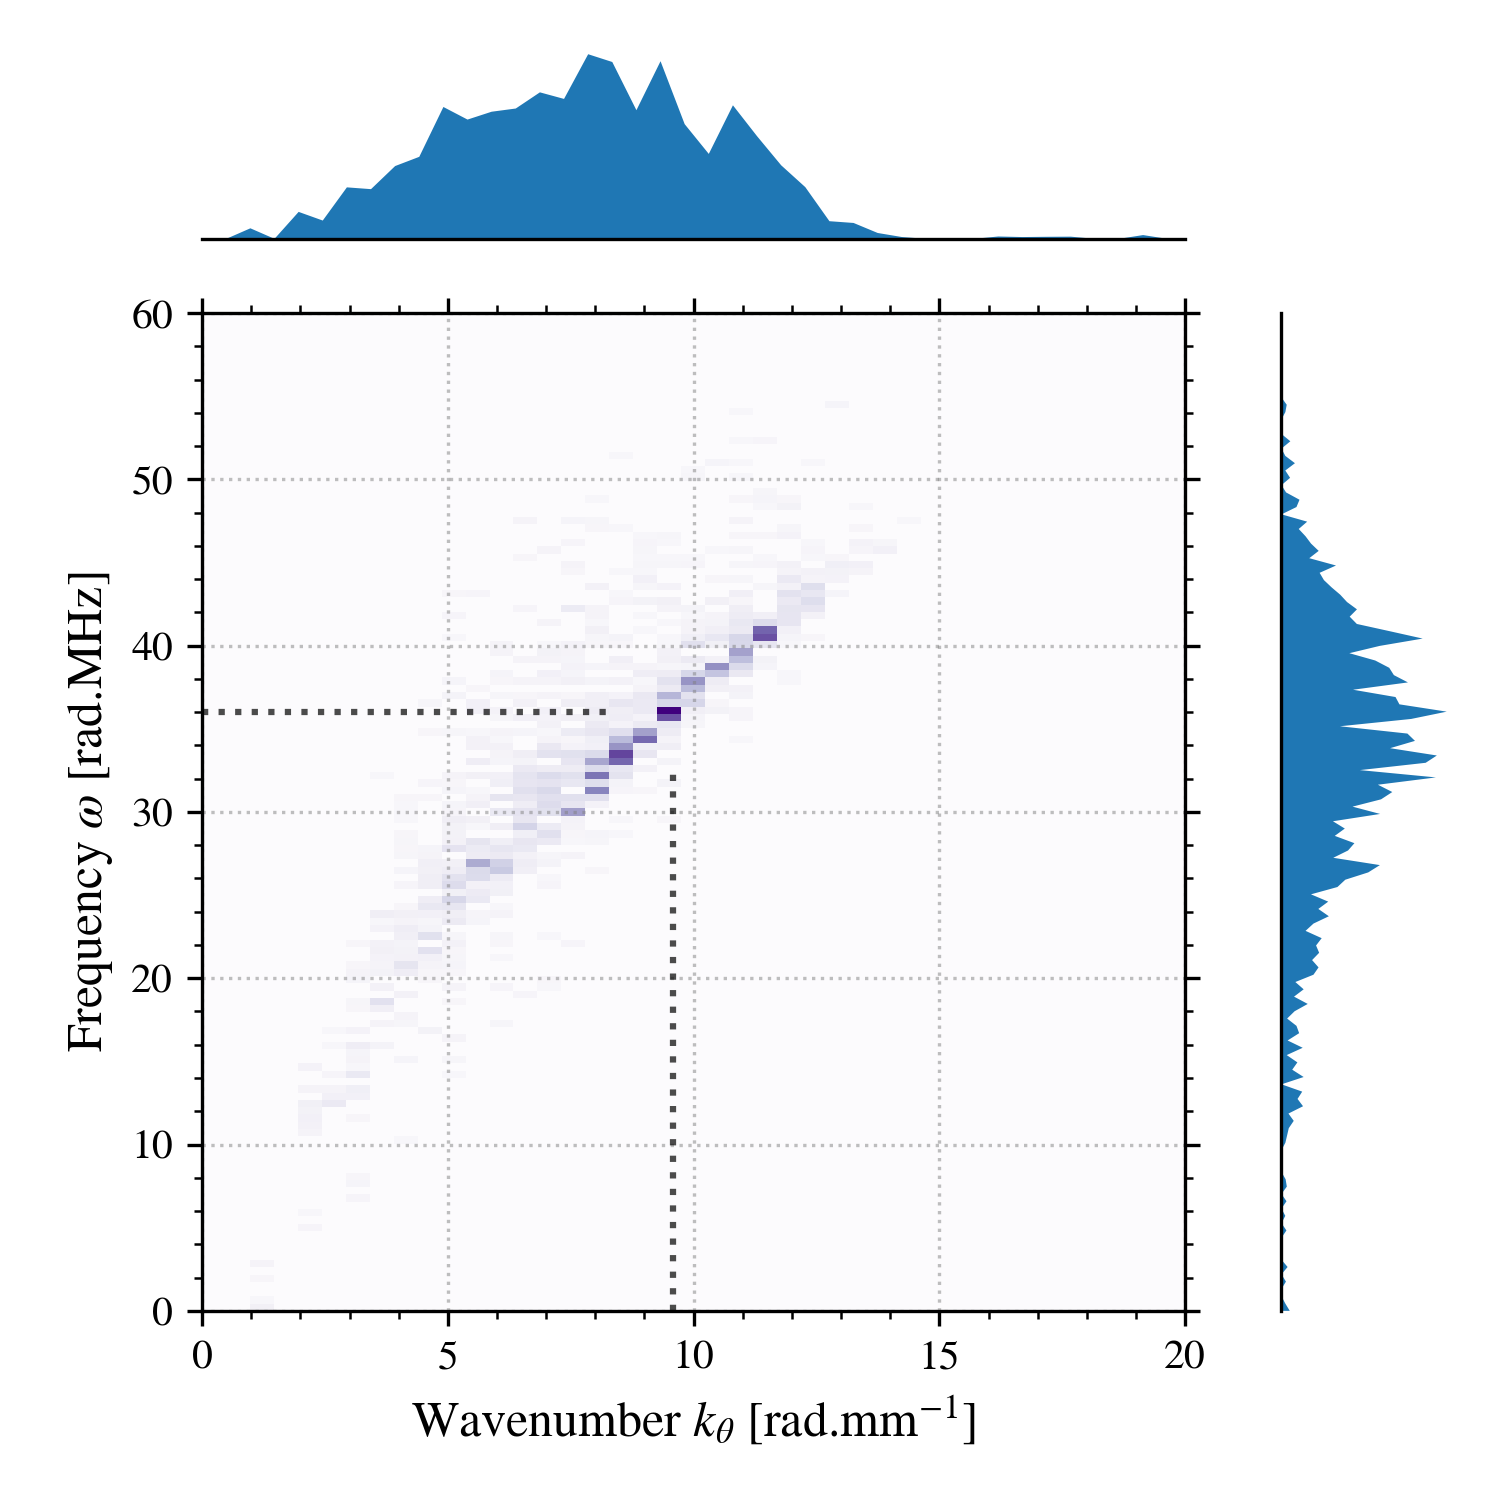
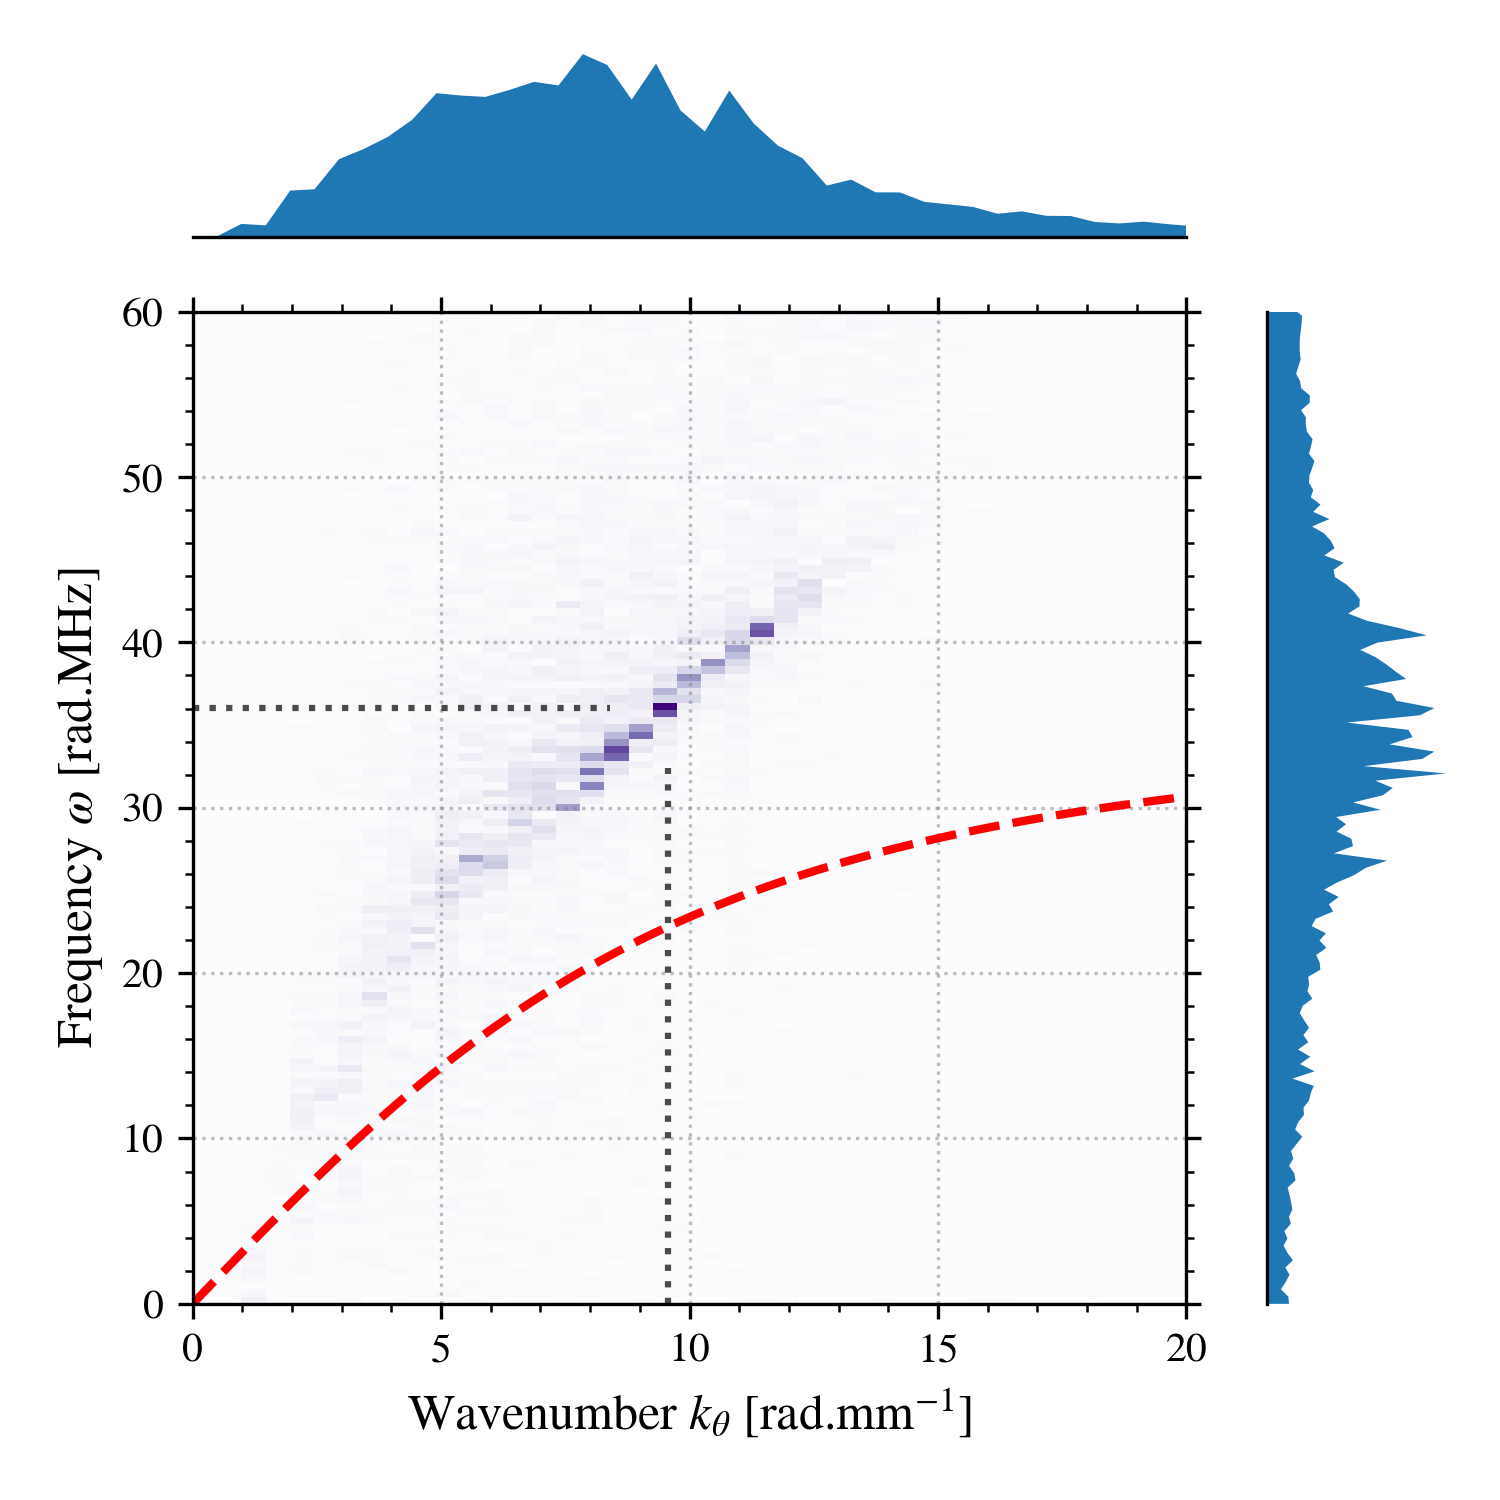
wrote conclusion of ch-6

diff --git a/src/Chapitre6/64-ECDI.tex b/src/Chapitre6/64-ECDI.tex
@@ -2,7 +2,7 @@
 
 \section{Characteristics of the azimuthal instability}
 
-\inlinenote{Here, some plots of the instability, the variation of $k_{\theta}$ and $\omega$ with $z$ in respect to $\lde$ and $\opi$.
+\inlinenote{Here, 
 Discuss on the saturation by ion trapping via the same equation as \cref{subsec-temp}.  }
 
 The case defined by Boeuf is more efficient to  study the instability.
@@ -66,27 +66,27 @@ The downstream region is more complex, as there is a combination of two waves.
 We perform a \ac{2D} \ac{FFT} on the spatio-temporal azimuthal electric field to obtain the relation dispersion of the wave observed.
 \Cref{fig-fft2D_noLr_zu} shows the \ac{2D} \ac{FFT} in the upstream region.
 We also display the \ac{1D} \ac{FFT} obtained by summing the \ac{2D} \ac{FFT} in one direction.
-We can see that the waves follow one well-defined curve.
+We can see that the waves follow one well-defined curve, wich is close to the \ac{IAW} of \cref{eq-MIAW} using the local Debye length and ion plasma pulsation.
 The maximum of the wave is located at $k_{\theta} = 8.5\,\radian\per\milli\meter$ and $\omega = 35\, \radian\per\mega\hertz$.
 
 \begin{figure}[hbtp]
   \centering
   \includegraphics[width=5in]{Boeuf_noLr_FFT2D_y50_full}
-  \caption{\ac{2D} and \ac{1D} \ac{FFT} of the azimuthal electric field in the upstream region $z=z_d$ without radial losses. The black dotted lines highlight the position of the maximum of the \ac{2D} \ac{FFT}.}
+  \caption{\ac{2D} and \ac{1D} \ac{FFT} of the azimuthal electric field in the upstream region $z=z_u$ without radial losses. The black dotted lines highlight the position of the maximum of the \ac{2D} \ac{FFT}. The red dash line corresponds the the \ac{IAW} dispersion relation of \cref{eq-MIAW}.}
   \label{fig-fft2D_noLr_zu}
 \end{figure}
 
-The \ac{2D} \ac{FFT} in the downstream region is presented in \cref{fig-fft2D_noLr_zu}.
+The \ac{2D} \ac{FFT} in the downstream region is presented in \cref{fig-fft2D_noLr_zd}.
 In contrast to the upstream region, we can see that the waves do not follow one well-defined curve.
 The maximum of the wave is located at $k_{\theta} = 3\,\radian\per\milli\meter$ and $\omega = 20\, \radian\per\mega\hertz$.
 The wave characteristics of the upstream region can still be seen, but a larger and slower wave is overlaid to it.
-However, this new wave seems to follow the same dispersion relation as the upstream wave.
+However, this new wave seems to follow the same dispersion relation as in the upstream, but not the one using the local plasma parameters, which underestimates the waves parameters.
 
 
 \begin{figure}[hbtp]
   \centering
   \includegraphics[width=5in]{Boeuf_noLr_FFT2D_y300_full}
-  \caption{\ac{2D} and \ac{1D} \ac{FFT} of the azimuthal electric field in the downstream region $z=z_u$ without radial losses.  The black dotted lines highlight the position of the maximum of the \ac{2D} \ac{FFT}.}
+  \caption{\ac{2D} and \ac{1D} \ac{FFT} of the azimuthal electric field in the downstream region $z=z_d$ without radial losses.  The black dotted lines highlight the position of the maximum of the \ac{2D} \ac{FFT}, and the red dash line corresponds the the \ac{IAW} dispersion relation of \cref{eq-MIAW}.}
   \label{fig-fft2D_noLr_zd}
 \end{figure}
 
@@ -100,7 +100,7 @@ We can see that for $L_R=4\,\centi\meter$
 \begin{figure}[hbtp]
   \centering
   \includegraphics[width=5in]{Boeuf_Lr4_FFT2D_y300_full}
-  \caption{\ac{2D} and \ac{1D} \ac{FFT} of the azimuthal electric field in the upstream region $z=z_u$ with $L_R=4\,\centi\meter$.  The black dotted lines highlight the position of the maximum of the \ac{2D} \ac{FFT}.}
+  \caption{\ac{2D} and \ac{1D} \ac{FFT} of the azimuthal electric field in the downstream region $z=z_d$ with $L_R=4\,\centi\meter$.  The black dotted lines highlight the position of the maximum of the \ac{2D} \ac{FFT}, and the red dash line corresponds the the \ac{IAW} dispersion relation of \cref{eq-MIAW}.}
   \label{fig-fft2D_Lr4_zd}
 \end{figure}
 
@@ -108,9 +108,45 @@ We can see that for $L_R=4\,\centi\meter$
 \begin{figure}[hbtp]
   \centering
   \includegraphics[width=5in]{Boeuf_Lr2_FFT2D_y300_full}
-  \caption{\ac{2D} and \ac{1D} \ac{FFT} of the azimuthal electric field in the upstream region $z=z_u$ without radial losses.  The black dotted lines highlight the position of the maximum of the \ac{2D} \ac{FFT}.}
+  \caption{\ac{2D} and \ac{1D} \ac{FFT} of the azimuthal electric field in the downstream region $z=z_d$ with $L_R=2\,\centi\meter$.  The black dotted lines highlight the position of the maximum of the \ac{2D} \ac{FFT}.}
   \label{fig-fft2D_Lr2_zd}
 \end{figure}
 
 \subsection{Axial evolution of the wave characteristics} \label{subsec-axial_profile}
+
+the \ac{2D} \ac{FFT} presented in \cref{subsec-fft,subsec-fftlosses} where only given for $z=z_u$ and $z=z_d$.
+In this section, we investigate the axial evolution on the wave characteristics.
+To do so, we present in \Cref{fig-axial_fft1D} the axial evolution of the \ac{1D} \ac{FFT} for the three cases.
+ 
+\begin{figure}[hbtp]
+  \centering
+  \includegraphics[width=\textwidth]{Boeuf_axila_evolution_fft1D_noLr}
+  \includegraphics[width=\textwidth]{Boeuf_axila_evolution_fft1D_Lr4}
+  \includegraphics[width=\textwidth]{Boeuf_axila_evolution_fft1D_Lr2}
+  \caption{Axial evolution of the \ac{1D} \ac{FT} on (left) the frequency and (right) the wavenumber for (top) no radial losses, (middle) $L_r=4\,\centi\meter$, and (bottom) $L_r=\,\centi\meter$ using the model of Boeuf. }
+  \label{fig-axial_fft1D}
+\end{figure}
+
+We can see in \cref{fig-axial_fft1D} that the low frequency oscillation appears approximately at $z=0.75\,\centi\meter$, which corresponds to the maximum of the magnetic field.
+We see that it does not replace the short-wavelength wave of the upstream region, but instead it is added to it.
+This second low-frequency oscillation is clearly visible when no radial losses are present, but its amplitude is reduced for $L_R=4\,\centi\meter$.
+Moreover, it is almost non-existent for $L_R=2\,\centi\meter$ in the frequency spectra, but seems to be present in the wavenumber spectra.
+
+We have see previously that the \ac{1D} spectral aggregates the waves information, thus the larger wave cannot be directly observed by this way.
+\Cref{fig-axial_maxwave_normalized} shows the axial evolution of the wave characteristics (pulsation and wavenumber) for the wave of maximum amplitude in the \ac{2D} \ac{FFT}, such as the one located by the dotted lines in \cref{fig-fft2D_noLr_zd}.
+The pulsation $\omega$ is normalized by the local ion plasma pulsation $\opi$ given in \cref{fig-wpi_Lde}.
+The azimuthal wavenumber $k_{\theta}$ is normalized by the local Debye length.
+ 
+\begin{figure}[hbtp]
+  \centering
+  \includegraphics[width=\textwidth]{Boeuf_caracteristics_all_normalized}
+  \caption{Axial evolution of (left) the frequency and (right) the wavenumber of the wave of maximum amplitude in the \ac{2D} \ac{FFT} for the three cases using the model of Boeuf. The pulsation and the wavenumber are normalized by the local ion plasma pulsation, respectively the Debye length.}
+  \label{fig-axial_maxwave_normalized}
+\end{figure}
+
+We can see in \cref{fig-axial_maxwave_normalized} that the in the upstream region, the cases with radial losses ($L_R=2 and 4\,\centi\meter$) present similar waves characteristics, with higher frequency and wavenumber that the case without radial losses.
+However, in the upstream region the wave of maximum amplitude is the low frequency wave for both cases without losses and with $L_r=4\,\centi\meter$.
+On the other hand, the case $L_R=2\,\centi\meter$ shows a small discontinuity, but the wave characteristics are very close.
+
+
 

diff --git a/src/Chapitre6/69-conclusion.tex b/src/Chapitre6/69-conclusion.tex
@@ -1,6 +1,40 @@
 % !TEX root=/home/tavant/these/manuscript/src/manuscript.tex
 
-\section{Conclusion on the Axial-azimuthal simulations}
+\section{Conclusion on the axial-azimuthal simulations}
 
-In the chapter, we have investigated the impact of the axial direction on the \ac{PIC} simulation.
-We have 
+In this chapter, we have investigated the impact of the radial direction in a \ac{PIC} simulation simulating the axial and azimuthal direction.
+
+We have proposed a model in order to introduce in a \ac{2D} azimuthal-axial simulation of the effects of the radial direction.
+More precisely, we started by model the losses, corresponding to fully absorbing walls without electron remission.
+The model imposes a pseudo-local flux neutrality at the wall, reproducing the effect of a floating sheath.
+
+Two different model of simulation has been investigated. The first one, proposed by \citet{boeuf2018}, uses a forced ionization source term. this allows to suppress the ionization instability, also named breathing mode.
+The second model was proposed by \citet{coche2014}. 
+The ionization term is selfconsistently computed using the \ac{MCC} algorithm.
+However, in order to reduce the computation load, the authors introduced a scaling of the vacuum permittivity, allowing the easily resolve the breathing mode.
+
+\vspace{1em}
+The model as successfully shown is ability to reduce the plasma density and electron temperature in the 2 models.
+In the model of Coche, the breathing mode is affected by the radial losses. 
+Its frequency is reduced, and its growth rate is increase.
+
+Using the model of Boeuf, we are able the obtain a steady state for three cases, one without radial losses, and two with losses, using a radial length $L_R=4\,\centi\meter$ and $L_R=2\,\centi\meter$.
+We observe that the radial losses reduces slightly the electron density, and the axial electric field is almost not affected.
+On the other hand, the electron temperature is significantly reduced in the three direction, and not only in the radial direction.
+Consequently, the amplitude of the azimuthal electric field is also reduces, reducing the axial electron transport.
+
+In addition, we see that the wave characteristics are affected.
+More precisely, in the downstream region, a low-frequency and large wavelength is present when no radial losses is model.
+The amplitude of this large wave is reduced for $L_R=4\,\centi\meter$, and disappear for $\L_R=2\,\centi\meter$.
+
+The origin of the instability modification is not clear.
+It might be due to the modification of the plasma density and the electron temperature.
+It could also be due to a numerical noise, induced by the radial loss model.
+More investigation should be conducted.
+
+\vspace{1em}
+We observed that the electrons are less isotropic than observed in the radial-azimuthal simulation, even in the presence of electron-neutral scattering.
+We observed that in the radial simulation, the mean radial electron Joule heating is not zero in the bulk.
+This radial heating would seems to be due to the instability, that presents radial structure at saturations.
+This joule heating is absent of the \ac{2D} axial-azimuthal simulation.
+Thus, as long as the radial heating of the electron is not clearly understood, the plasma-wall interaction cannot be realistically modeled in such low-dimensional simulations.

diff --git a/src/Chapitre2/25_diel_and_SEE.tex b/src/Chapitre2/25_diel_and_SEE.tex
@@ -31,7 +31,7 @@
     \begin{figure}[hbtp]
       \centering
       \includegraphics[width=\defaultwidth]{dielectron_yesSEE_mobility}
-      \caption{Temporal evolution of the axial electron mobility measured in the \ac{PIc} simulation with and without the dielectric layer between the plasma and the grounded electrodes. }
+      \caption{Temporal evolution of the axial electron mobility measured in the \ac{PIC} simulation with and without the dielectric layer between the plasma and the grounded electrodes. }
       \label{fig-temporal_mu} 
     \end{figure}
     

diff --git a/src/manuscript.tex b/src/manuscript.tex
@@ -23,15 +23,15 @@
 %   INCLUDE
 % ===============================
 \includeonly{
-% structure/structure,%
+structure/structure,%
  structure/lists,%
  Context/0_concepts,%
- % Chapitre1/1-introduction,%
-%  Chapitre2/2-mean_values,%
-%  Chapitre3/3-non_isothermal_sheath,%
-%  Chapitre4/4-polytropic_SEE,%
-%  Chapitre5/5-ECDI, %
- % texfiles/1ere
+ Chapitre1/1-introduction,%
+ Chapitre2/2-mean_values,%
+ Chapitre3/3-non_isothermal_sheath,%
+ Chapitre4/4-polytropic_SEE,%
+ Chapitre5/5-ECDI, %
+ texfiles/1ere,%
  Chapitre6/6-Z-theta, %
  }
 
